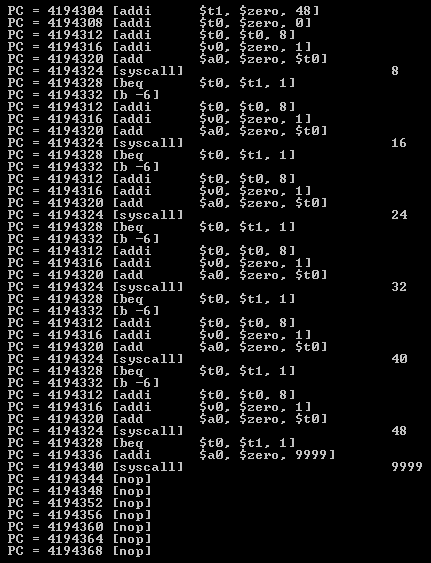
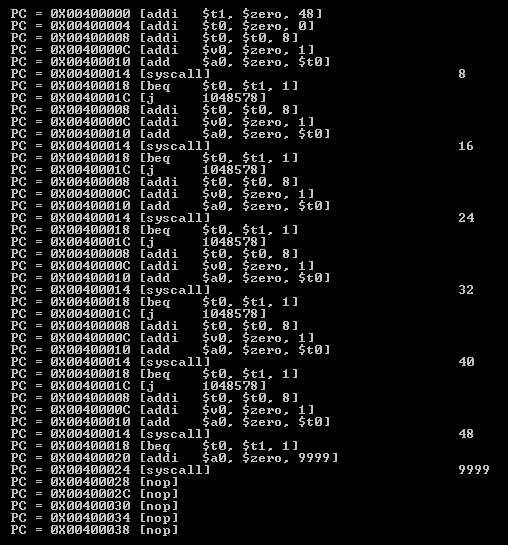
Updated demonstration and fixed SIZE_WORD issue (was 8 instead of 4)

diff --git a/src/VirtualMemory.hpp b/src/VirtualMemory.hpp
@@ -66,6 +66,7 @@ class VirtualMemory{
 		void writeMemoryMap(MemoryMap* memoryMap);
 		MemoryMap readMemoryMap() const;
 
+
 		void writeToVirtualMemorySpace(virtualAddr address, size_t size, void* ptr);
 		h_byte* readVirtualMemorySpaceToHeap(virtualAddr address, size_t size) const;
 		byte* getByteAddr(virtualAddr address) const;
@@ -74,6 +75,18 @@ class VirtualMemory{
 
 		//InstructionCache functions
 		Instruction* readInstruction(virtualAddr address);
+
+		//Template functions
+		
+		template<typename datatype> 
+		datatype readPOD(virtualAddr addr){
+			h_byte* bytePtr = readVirtualMemorySpaceToHeap(addr, sizeof(datatype));
+			datatype val = *bytePtr;
+			delete bytePtr;
+			return val;
+		}
+
+
 
 	private:
 		VirtualMemoryPageTable* pageTable;

diff --git a/src/Assembler.cpp b/src/Assembler.cpp
@@ -510,8 +510,14 @@ void Assembler::replaceLabels(){
 //VirtualMemory mapping
 void Assembler::naiveNoDirectives(){
 	for(int i=0; i<alignedProgram.size(); i++){
-		Instruction instruction = encoder->buildInstruction(alignedProgram[i].token);
-		instr bin = instruction.getBin();
-		virtualMemory.writeToVirtualMemorySpace(alignedProgram[i].addr, sizeof(bin), &bin);
+		if(alignedProgram[i].type == DIRECTIVE_INSTRUCTION){
+			Instruction instruction = encoder->buildInstruction(alignedProgram[i].token);
+		
+			virtualAddr addr = alignedProgram[i].addr;
+			instr bin = instruction.getBin();
+			size_t size = sizeof(bin);
+
+			virtualMemory.writeToVirtualMemorySpace(addr, size, &bin);
+		}
 	}
 }

diff --git a/src/CPU.cpp b/src/CPU.cpp
@@ -1333,11 +1333,11 @@ inline void CPU::executeInstructionID_193(uint32_t a0, uint32_t a1, uint32_t a2,
 }
 inline void CPU::executeInstructionID_194(uint32_t a0, uint32_t a1, uint32_t a2, uint32_t a3){
 	//	194	=	LB	:	$rt,	-.imm,	($rs),	_		
-	
+	GPR[a0] = MEM.readPOD<byte>(a1 + GPR[a2]);
 }
 inline void CPU::executeInstructionID_195(uint32_t a0, uint32_t a1, uint32_t a2, uint32_t a3){
 	//	195	=	LBE	:	$rt,	-.[15,7],	($rs),	_		
-	
+	GPR[a0] = MEM.readPOD<byte>(a1 + GPR[a2]);
 }
 inline void CPU::executeInstructionID_196(uint32_t a0, uint32_t a1, uint32_t a2, uint32_t a3){
 	//	196	=	LBU	:	$rt,	-.imm,	($rs),	_		

diff --git a/src/BitManip.hpp b/src/BitManip.hpp
@@ -7,7 +7,7 @@
 #include <stdint.h>
 #include <string.h> // memcpy
 
-extern inline int32_t signExtend(uint32_t, unsigned int);
+extern inline int32_t signExtend(uint32_t, size_t);
 
 extern void printbin(const void* p, int len);
 
@@ -20,7 +20,7 @@ datatype readMemAs(void* ptr){
 	memcpy(&x, ptr, sizeof(datatype));
 	return x;
 }
-template int8_t	readMemAs<int8_t>	(void* ptr);
+template int8_t		readMemAs<int8_t>	(void* ptr);
 template uint8_t	readMemAs<uint8_t>	(void* ptr);
 template int16_t	readMemAs<int16_t>	(void* ptr);
 template uint16_t	readMemAs<uint16_t>	(void* ptr);

diff --git a/src/main.cpp b/src/main.cpp
@@ -74,7 +74,7 @@ int main(){
 		}
 
 		Instruction* instructionFromMemory = cpu.MEM.readInstruction(cpu.PC);
-		cout << "\nPC = " << cpu.PC << " [" << instructionFromMemory->getAsmString() << "]\t\t\t\t";
+		cout << "\nPC = " << parser.literals.getHexLiteralString(cpu.PC) << " [" << instructionFromMemory->getAsmString() << "]\t\t\t\t";
 		cpu.executeInstruction(instructionFromMemory);
 	}
 

diff --git a/src/types.hpp b/src/types.hpp
@@ -6,7 +6,10 @@
 
 #define INSTRUCTION_DATA_HASH_TABLE_SIZE	(1009)
 #define NUMBER_OF_OPCODES					(64)
-#define INSTRUCTIONSIZE						(32)
+#define WORDSIZE							(32)
+#define INSTRUCTIONSIZE						(WORDSIZE)
+#define HWORDSIZE							(WORDSIZE / 2)
+#define BYTESIZE							(8)
 #define OPCODESIZE							(6)
 #define NUMBER_OF_PARAMETERS					(4)
 #define NUMBER_OF_INSTRUCTIONS				(377)

diff --git a/src/Assembler.hpp b/src/Assembler.hpp
@@ -14,7 +14,7 @@ using namespace std;
 
 
 #define SIZE_BYTE (1)
-#define SIZE_WORD (8)
+#define SIZE_WORD (4 * SIZE_BYTE)
 #define SIZE_HALF (SIZE_WORD / 2)
 #define SIZE_FLOAT (SIZE_WORD)
 #define SIZE_DOUBLE (2 * SIZE_FLOAT)

diff --git a/README.md b/README.md
@@ -19,16 +19,19 @@
 6. Instruction emulation from memory	-	  in progress    
    
 ###Example program:   
-addi 	$t1, $zero, 48	  
-addi	$t0, $zero, 0      
-addi	$t0, $t0, 8   
-addi	$v0, $zero, 1	   
-add	$a0, $zero, $t0	   
-syscall			   
-beq	$t0, $t1, 1	   
-b	-6			   
-addi	$a0, $zero, 999	   
-syscall			   
+.text
+addi	$t1, $zero, 48
+addi	$t0, $zero, 0
+loopstart:
+addi	$t0, $t0, 8
+addi	$v0, $zero, 1
+add	$a0, $zero, $t0
+syscall	
+beq	$t0, $t1, loopend
+j	loopstart
+loopend:
+addi	$a0, $zero, 9999	
+syscall						   
 
 ###Example output:   
 ![Alt text](/demos/program1output.png?raw=true)
